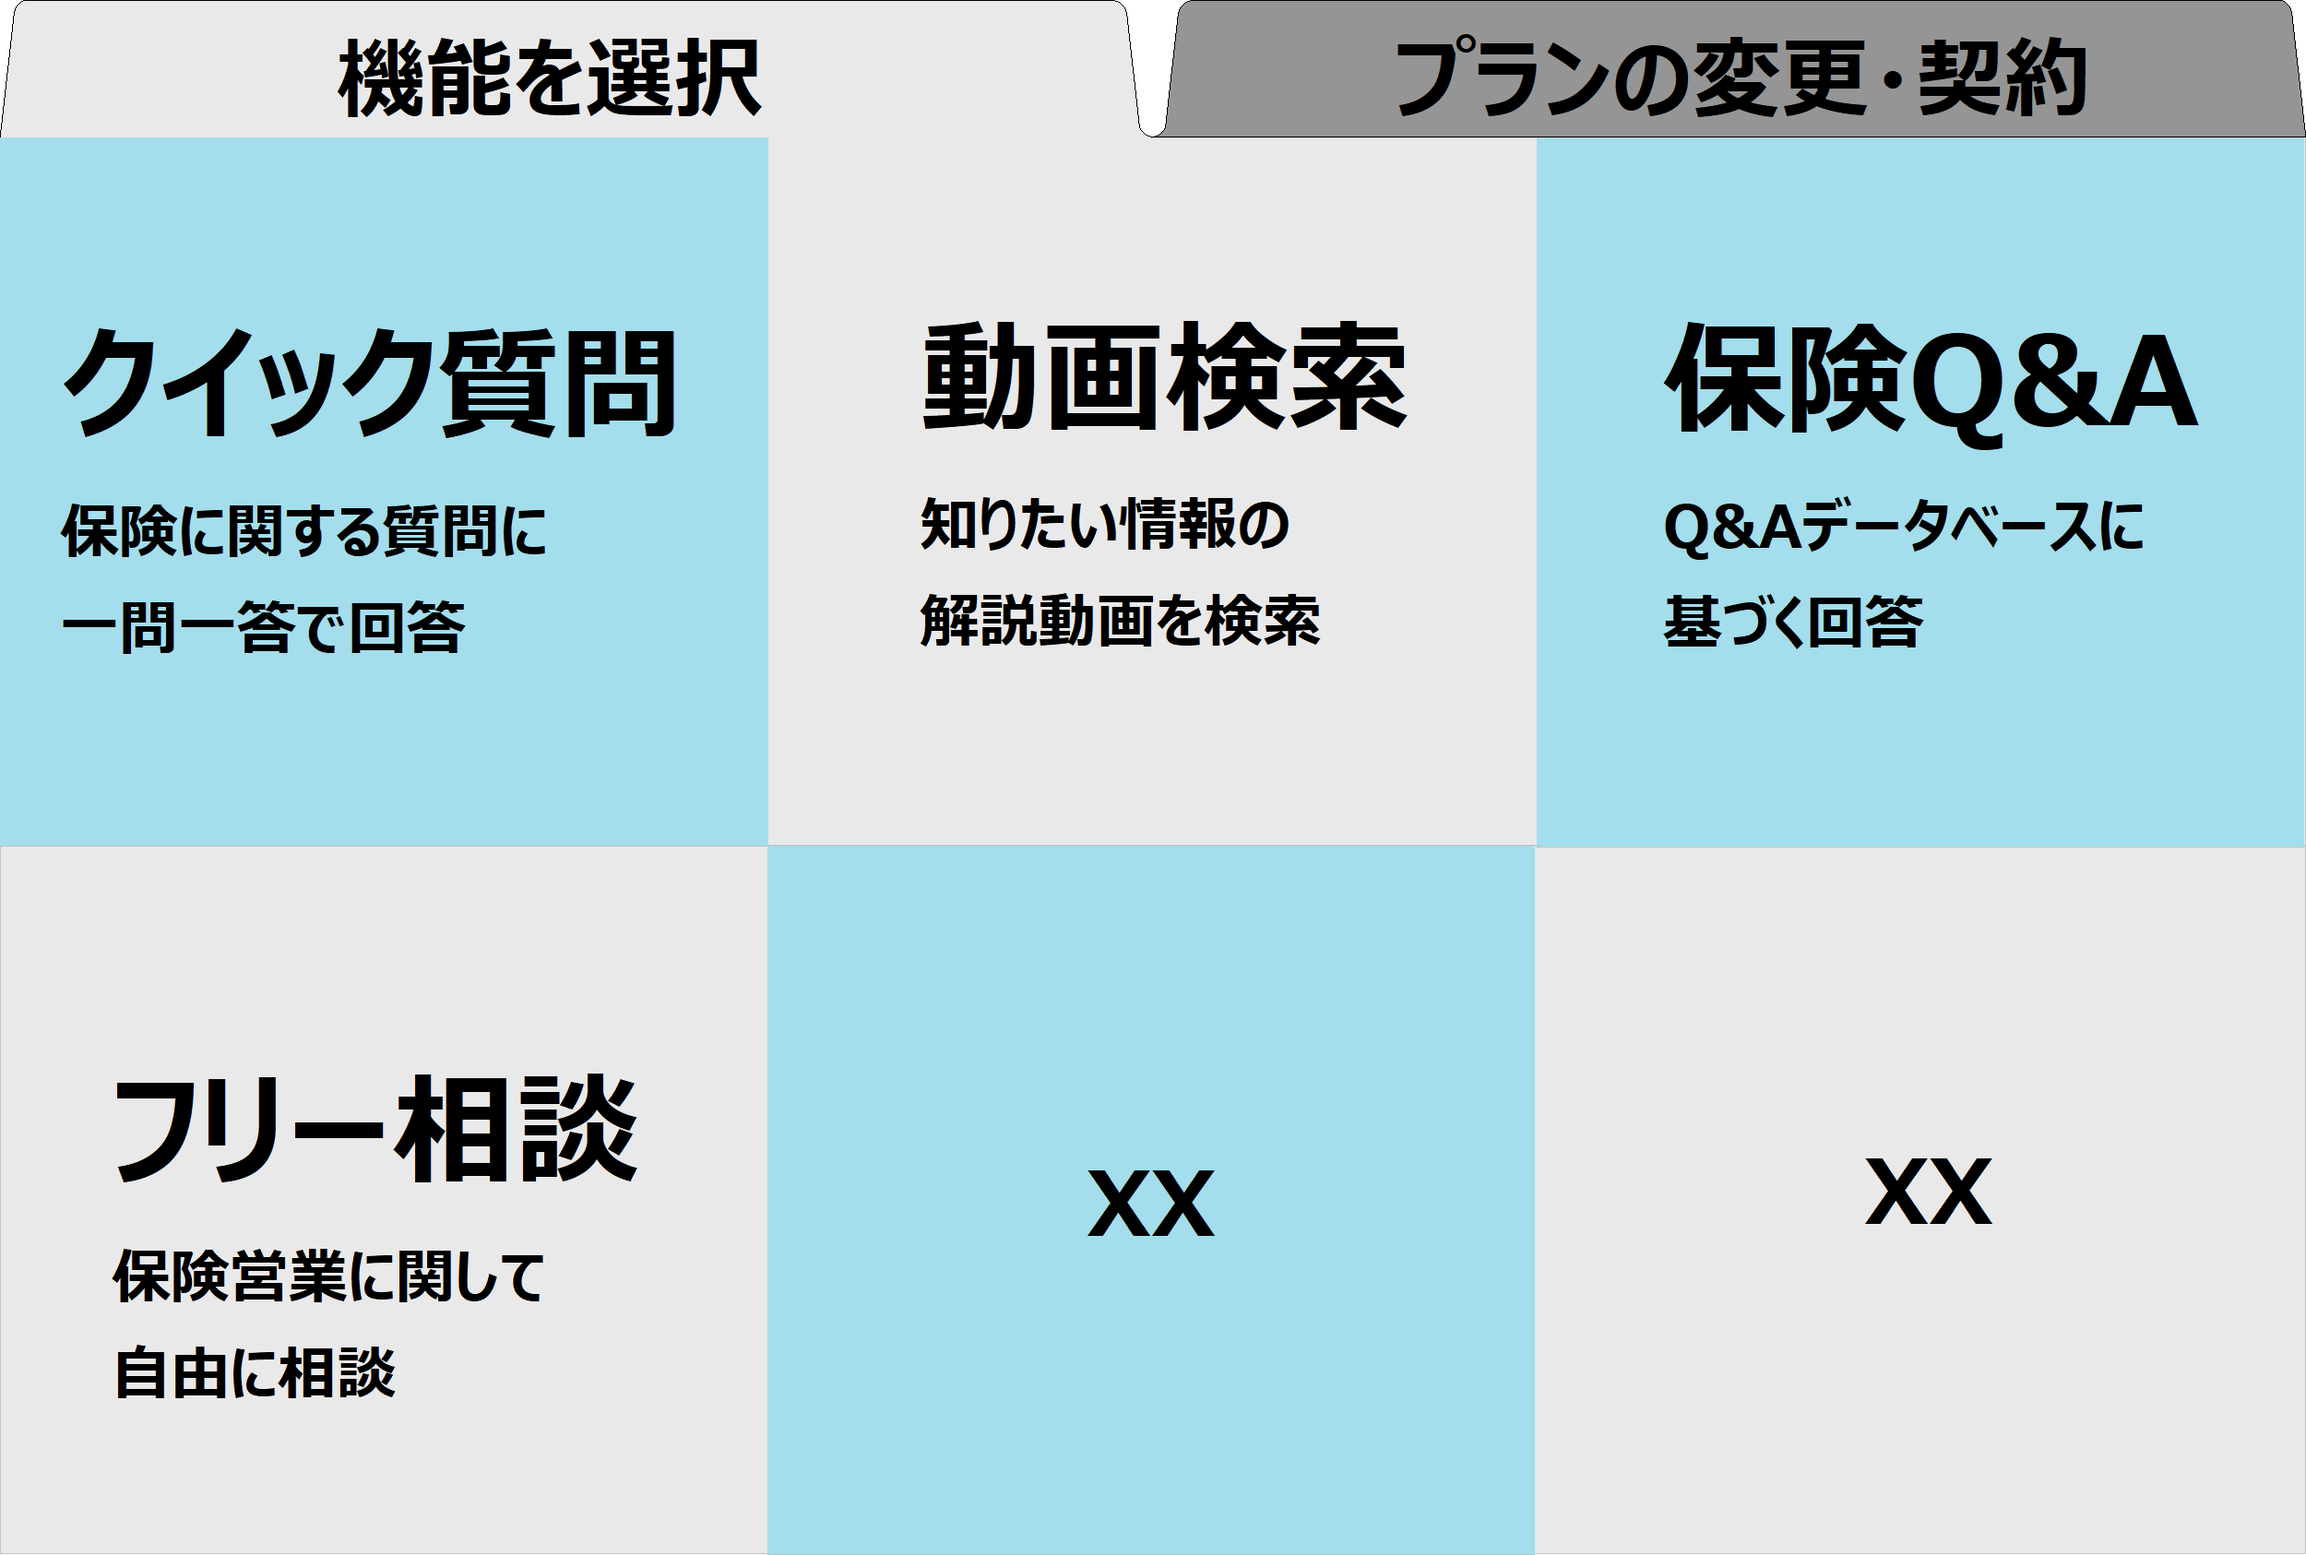
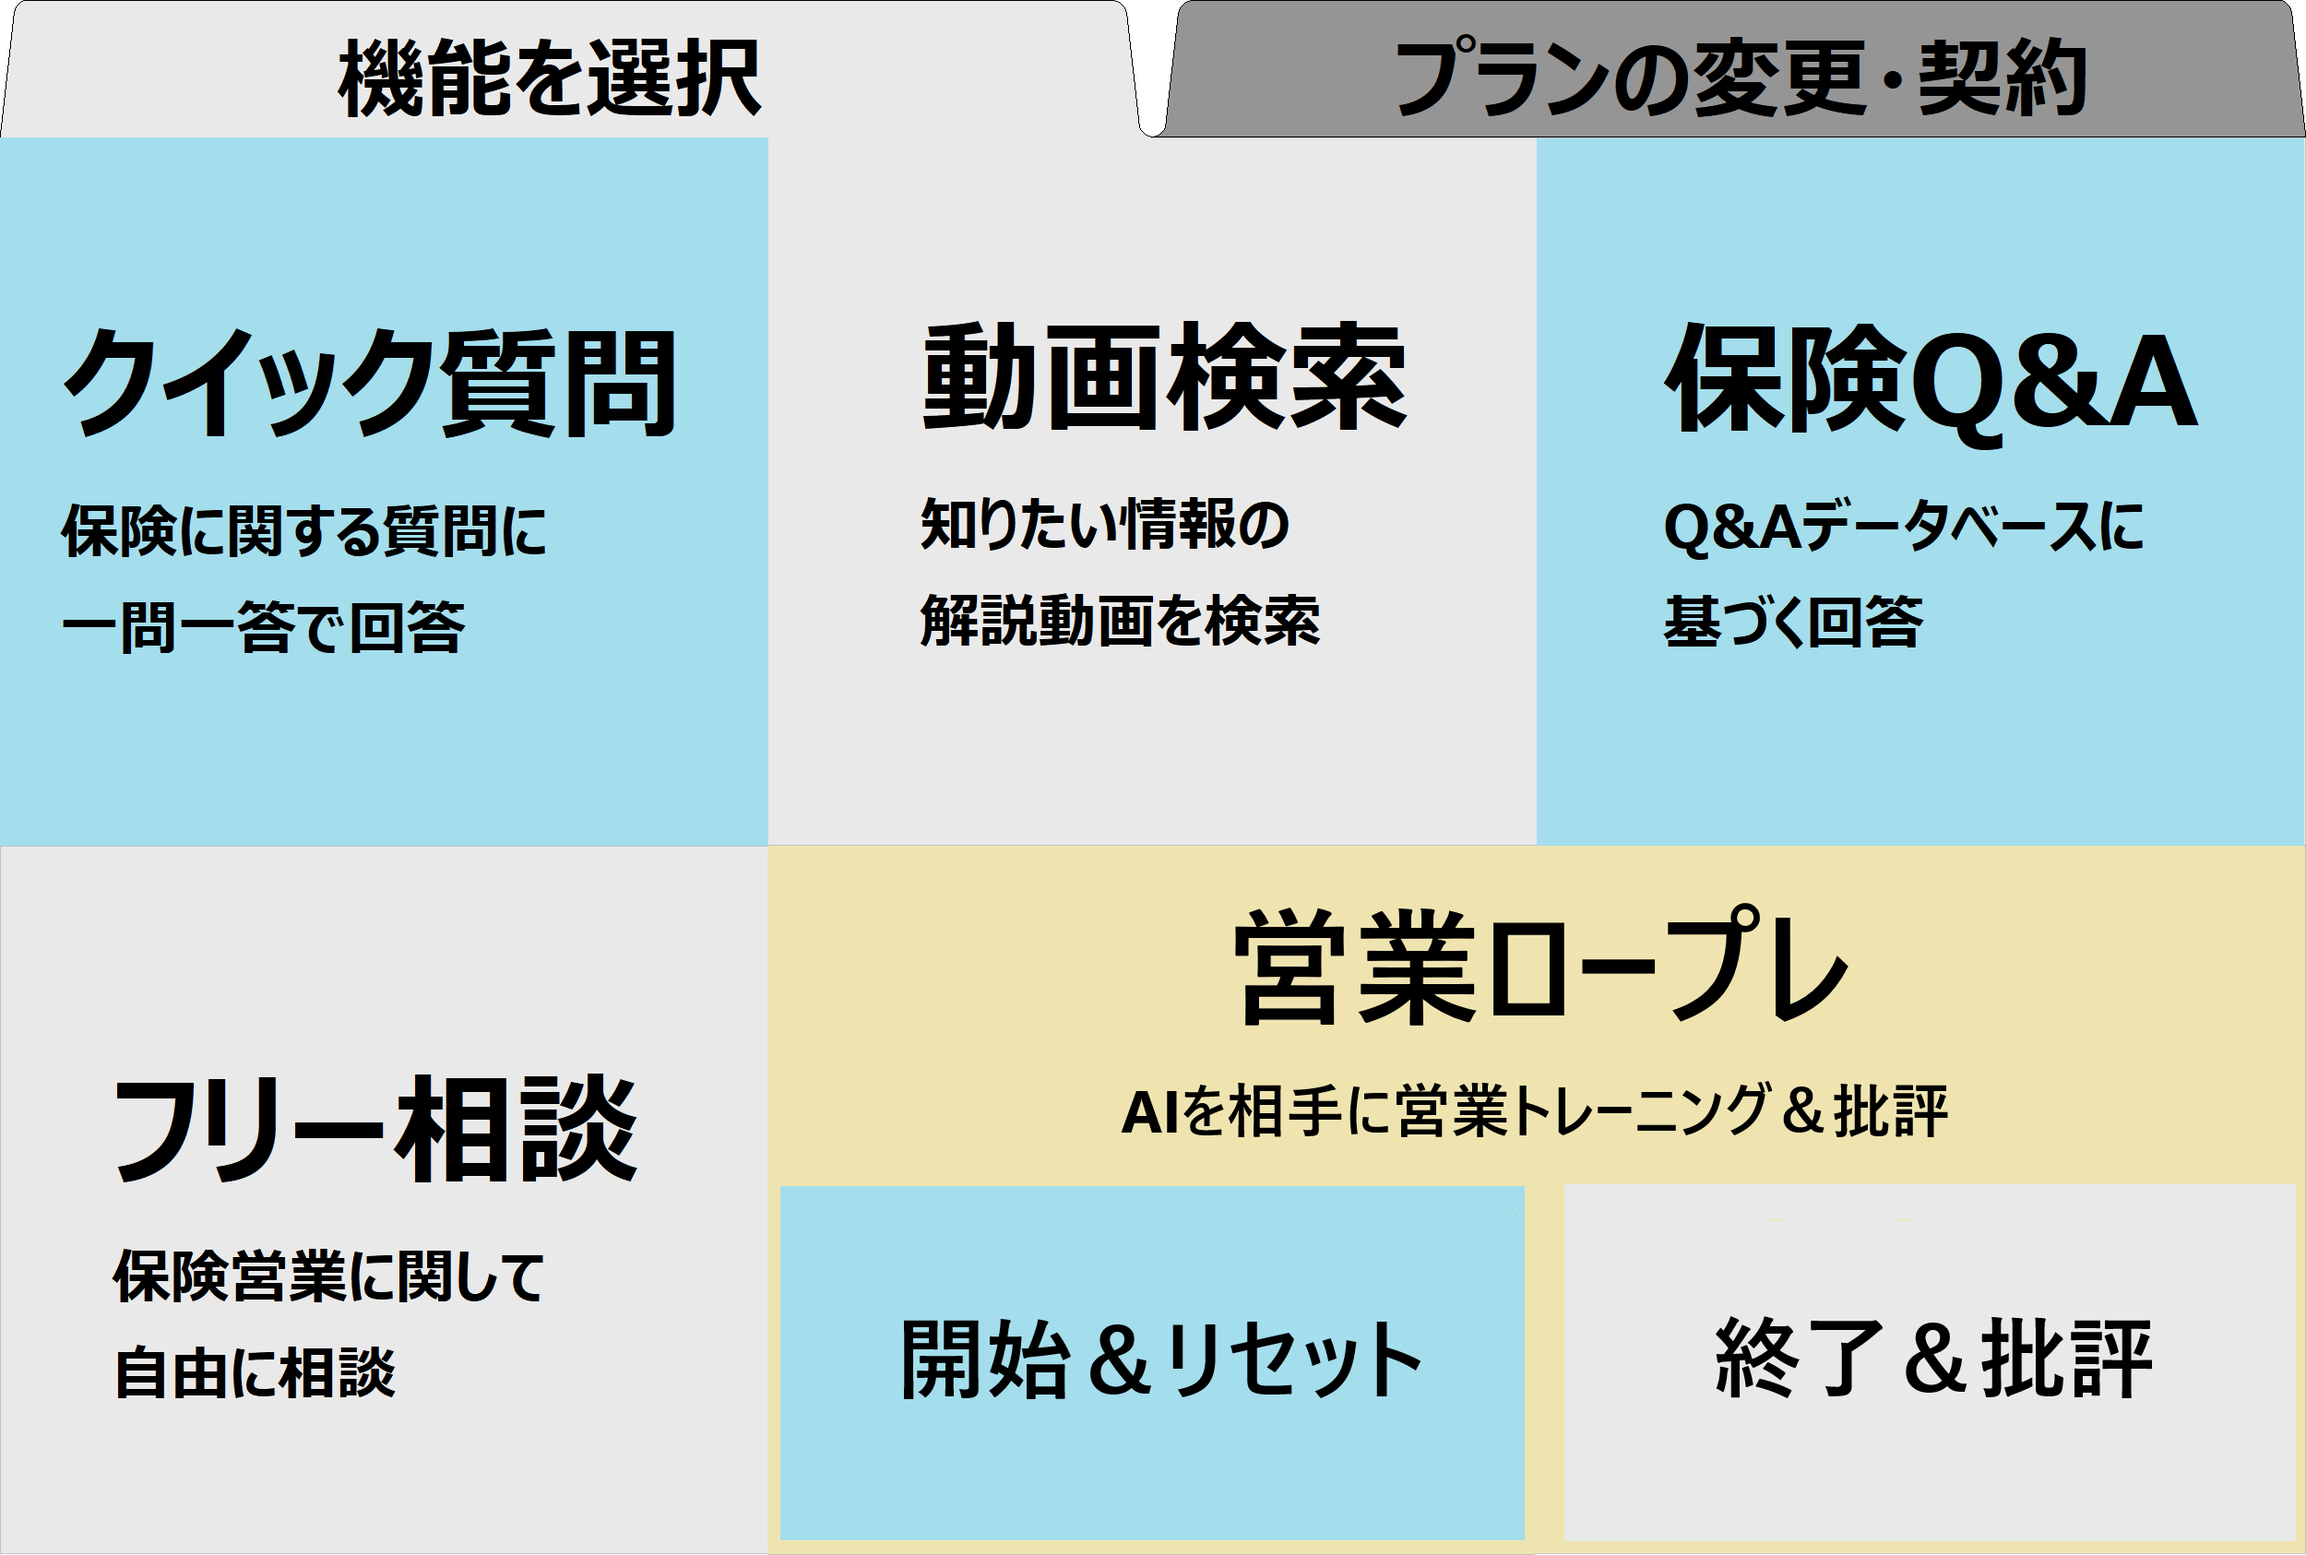
Add trial mode

Changed region(s): [[0.312, 0.5243, 1.0, 1.0], [0.3744, 0.8327, 0.624, 0.8944], [0.7488, 0.8327, 0.936, 0.8944]]

diff --git a/main.py b/main.py
@@ -48,7 +48,8 @@ PLAN_NAMES = {
     '980': 'ゼロコン初級プラン',
     '1980': 'ゼロコン中級プラン',
     '3980': 'ゼロコン上級プラン',
-    'free': 'フリープラン'
+    'free': 'フリープラン',
+    'try': 'トライアルプラン'
 }
 PRICE_IDS = {
     'price_1QDau2GUmbNfqrzFFvHVvoaz': '980',
@@ -204,8 +205,14 @@ def event_message(event,replyToken,userId):
 def message_process(event,userId):
     mesText = event['message']['text']
     pending_action = fa.get_pending_action(db, userId)
+    # ここでuserデータを確認して、trialが有効かをチェック
+    # 全件データの取得処理
+    # check = check_try(userId)
+    # pending_actionと取得が重複してるので、改善する
     if pending_action:
         return sub_act(pending_action,mesText,userId)
+    # elif not check:
+    #     return ['トライアル期間が終了しました。']
     else:
         mt = messageText(event,userId,mesText)
         return mt.res_text()
@@ -258,9 +265,12 @@ def event_postback(event,replyToken,userId):
     postType = event['postback']['data']
     if postType in ['kn','qa','yo','gs']:
         res = mode_change(userId,postType)
-    elif postType in ['980','1980','3980','free']:
+    elif postType in ['980','1980','3980','free','try']:
         rs = RegStripe(event,postType,replyToken,userId)
         res = rs.stripe_post_process()
+    elif postType == 'try':
+        # res = try_process(userId)
+        pass
     elif postType == 'tab':
         return True
     else:
@@ -273,8 +283,14 @@ def event_postback(event,replyToken,userId):
     #     return False
 
 def mode_change(userId,postType):
+    # ここでuserデータを取得するのはやめて、手前で一斉に取得するようにするべき
     sub_status = fa.get_sub_status(db, userId)
     current_plan = sub_status['current_sub_status']
+    if current_plan == 'try': # トライアル期間のチェック
+        # judge,text = check_try(userId)
+        # if not judge:
+        #     return text
+        pass
     if postType == "kn":
         judg,text = mode_kn(current_plan)
     elif postType == "qa":
@@ -319,9 +335,12 @@ class RegStripe:
         self.userId = userId
     
     def stripe_post_process(self):
-        sub_status = fa.get_sub_status(db, self.userId)
+        sub_status = fa.get_sub_status(db, self.userId)# tryのとき、トライアル期間とフラグをチェックする→sub_statusにフラグと期間を保存しておく
         current_plan = sub_status['current_sub_status']
         next_plan = sub_status['next_sub_status']
+        # if self.postType == 'try':
+        #     if not check_try(sub_status):
+        #         return ['トライアル期間が終了しました。'] # sub_statusも更新する必要あり
         action = self.det_sub_act(current_plan, next_plan, self.postType)
         if action == 'free':
             return self.cancel_sub(current_plan,next_plan)
@@ -341,7 +360,7 @@ class RegStripe:
             return ['不正な操作です。']
 
     def det_sub_act(self, current_plan, next_plan, desired_plan):
-        plan_order = ['free', '980', '1980', '3980']
+        plan_order = ['free', 'try', '980', '1980', '3980']
         current_index = plan_order.index(current_plan)
         if next_plan is None:
             next_index = 5
@@ -351,13 +370,17 @@ class RegStripe:
 
         if desired_plan == 'free':
             return 'free'
+        elif current_plan == 'free' and desired_plan == 'try':
+            return 'new_trial'
+        elif desired_plan == 'try' and current_index > desired_index:
+            return 'invalid_trial'
         elif desired_index == current_index:
             return 'already_subscribed'
         elif desired_plan == next_plan:
             return 'already_resv'
         elif next_plan != 'free' and current_index > next_index:
             return 'downgrade_resv'
-        elif current_plan == 'free' and desired_plan in ['980', '1980', '3980']:
+        elif current_plan == 'free' or current_plan == 'try' and desired_plan in ['980', '1980', '3980']:
             return 'new_subscription'
         elif current_index < desired_index:
             return 'upgrade'
@@ -369,6 +392,8 @@ class RegStripe:
     def cancel_sub(self,current_plan,next_plan):
         if current_plan == 'free':
             return ['ご契約済みのプランはありません。']
+        elif current_plan == 'try':
+            return ['現在トライアル期間中であり、ご契約済みのプランはありません。']
         elif next_plan == 'free':
             return ['ご契約プランの解約予約は完了しています。']
         else:
@@ -376,6 +401,7 @@ class RegStripe:
 
     def new_sub(self,desired_plan):
         return ["【ご契約用URL】\n以下のURLからご契約手続きを進めてください。\n\n" + sa.create_checkout_session(self.userId, desired_plan)]
+    # トライアルの解除は、契約完了処理の際に行う
 
     def upgrade_sub(self,action,next_plan,desired_plan):
         if next_plan == 'free':
@@ -397,7 +423,7 @@ class messageText:
         self.userId = userId
         self.userData = fa.get_user_data(db, userId,data_limit)
     
-    def res_text(self):
+    def res_text(self):# ※※要修正※※ 現在のプランを参照してモードを使用できるのかを判定する必要
         botType = self.userData['botType']
         if botType == "fr":
             return ['メニューからモードを選択してください。']

diff --git a/src/line/richmenu_controller.py b/src/line/richmenu_controller.py
@@ -101,7 +101,7 @@ class RichmenuController:
                     },
                     "action": {
                         "type": "postback",
-                        "data": "XXX"
+                        "data": "rps"
                     }
                 },
                 {
@@ -113,7 +113,7 @@ class RichmenuController:
                     },
                     "action": {
                         "type": "postback",
-                        "data": "XXX"
+                        "data": "rpr"
                     }
                 },
             ]
@@ -145,7 +145,19 @@ class RichmenuController:
                     "bounds": {
                         "x": 0,
                         "y": 151,
-                        "width": 1250,
+                        "width": 833,
+                        "height": 1536
+                    },
+                    "action": {
+                        "type": "postback",
+                        "data": "try"
+                    }
+                },
+                {
+                    "bounds": {
+                        "x": 834,
+                        "y": 151,
+                        "width": 833,
                         "height": 768
                     },
                     "action": {
@@ -155,21 +167,9 @@ class RichmenuController:
                 },
                 {
                     "bounds": {
-                        "x": 1251,
-                        "y": 151,
-                        "width": 1250,
-                        "height": 768
-                    },
-                    "action": {
-                        "type": "postback",
-                        "data": "XXX"
-                    }
-                },
-                {
-                    "bounds": {
-                        "x": 0,
+                        "x": 834,
                         "y": 919,
-                        "width": 1250,
+                        "width": 833,
                         "height": 768
                     },
                     "action": {
@@ -179,9 +179,21 @@ class RichmenuController:
                 },
                 {
                     "bounds": {
-                        "x": 1251,
+                        "x": 1667,
+                        "y": 151,
+                        "width": 834,
+                        "height": 151
+                    },
+                    "action": {
+                        "type": "postback",
+                        "data": "XXX"
+                    }
+                },
+                {
+                    "bounds": {
+                        "x": 1667,
                         "y": 919,
-                        "width": 1250,
+                        "width": 834,
                         "height": 768
                     },
                     "action": {

diff --git a/setup_richmenu.py b/setup_richmenu.py
@@ -1,0 +1,18 @@
+# %%
+from src.line.richmenu_controller import RichmenuController
+
+if __name__ == "__main__":
+    rt = RichmenuController()
+    # rt.get_rich_menu_list()
+    # rt.change_richmenu_default(1)
+    # rt.cancel_richmenu_default()
+    # rt.delete_all_richmenus_and_aliases()
+    # imagepath_list = ["./data/richmenu/images/機能選択画面.png","./data/richmenu/images/契約画面.png"]
+    # rt.gen_richmenu(imagepath_list)
+    rt.change_richmenu_default(1,"richmenu-fca29072b5a45248510b309c7d91a4de")
+    rt.get_default_richmenu()
+    rt.get_richmenu_alias("richmenu-alias-a","richmenu-fca29072b5a45248510b309c7d91a4de")
+    rt.get_richmenu_alias("richmenu-alias-b","richmenu-05cc77263a531c6d773d845fda05466d")
+
+
+# %%
